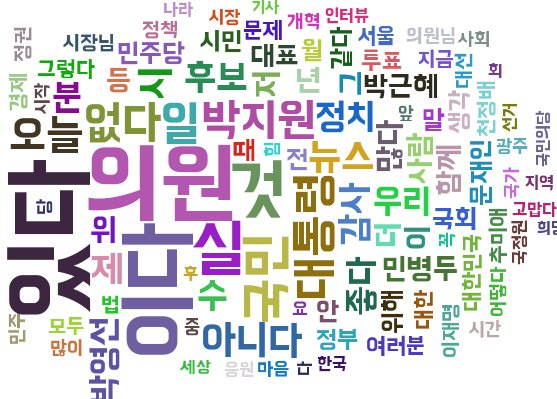
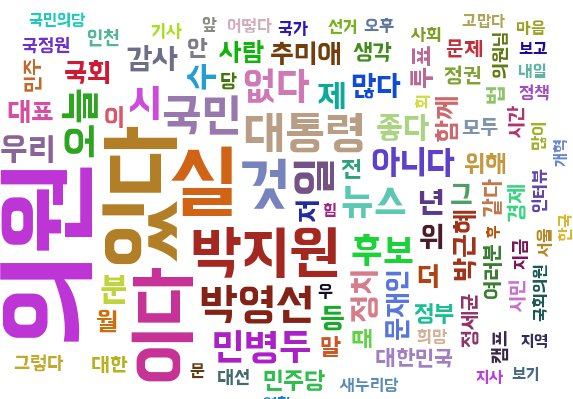
정치인 선택에 대한 결과 반영 및 모달 창에서의 체크 유지, 캔슬 버튼 누르면 원래대로 돌아오게 구현

diff --git a/server/app/templates/integration.html b/server/app/templates/integration.html
@@ -42,7 +42,7 @@
     <!-- Bootstrap Core JavaScript -->
     <script src="../static/js/bootstrap.min.js"></script>
 
-    <script>
+    <!-- <script>
         $(window).load(function() {
             $('.button-checkbox').each(function () {
                 // Settings
@@ -107,25 +107,40 @@
                 init();
             });
         });
-    </script>
+    </script> -->
 
     <script>
         function button_generate(inclination, json){
             data = JSON.parse(json);
             var i;
-            for(i=0;i<data.length;i+=3){
-                if(i+2<data.length){
-                    $("#"+inclination).append("<div class='btn-group btn-group-justified col-md-12' role='group'><span class='button-checkbox btn-group' role='group'><button type='button' class='btn' data-color='primary'>"+data[i]+"</button><input type='checkbox' class='hidden' checked /></span><span class='button-checkbox btn-group' role='group'><button type='button' class='btn' data-color='primary'>"+data[i+1]+"</button><input type='checkbox' class='hidden' checked /></span><span class='button-checkbox btn-group' role='group'><button type='button' class='btn' data-color='primary'>"+data[i+2]+"</button><input type='checkbox' class='hidden' checked /></span></div>");
+            var left_politician = ["김부겸","김성식","김진표","문재인","민병두","박범계","박영선",
+                "박원순","박지원","송영길","안철수","안희정","이재명","정동영",
+                "정세균","진영","천정배","추미애","표창원"]
+            var right_politician = ["김무성","김진태","나경원","남경필","서청원","심재철","원유철",
+                 "원희룡","이준석","장제원","정우택","정진석","최경환"];
+            if(inclination.substring(0,4) == "left"){
+                for(i=0;i<left_politician.length;i++){
+                    if(data.indexOf(left_politician[i]) > -1){
+                        $("#"+inclination).append("<input type='checkbox' name='"+inclination+"-ck' value='"+left_politician[i]+"' checked>"+left_politician[i]+"</input>");
+                    }
+                    else{
+                        $("#"+inclination).append("<input type='checkbox' name='"+inclination+"-ck' value='"+left_politician[i]+"'>"+left_politician[i]+"</input>");
+                    }
                 }
-                else if(i+1<data.length){
-                    $("#"+inclination).append("<div class='btn-group btn-group-justified col-md-12' role='group'><span class='button-checkbox btn-group' role='group'><button type='button' class='btn' data-color='primary'>"+data[i]+"</button><input type='checkbox' class='hidden' checked /></span><span class='button-checkbox btn-group' role='group'><button type='button' class='btn' data-color='primary'>"+data[i+1]+"</button><input type='checkbox' class='hidden' checked /></span><span class='button-checkbox btn-group' role='group'><button type='button' class='btn' data-color='primary' disabled>no one</button><input type='checkbox' class='hidden' checked /></span></div>");
-                }
-                else{
-                    $("#"+inclination).append("<div class='btn-group btn-group-justified col-md-12' role='group'><span class='button-checkbox btn-group' role='group'><button type='button' class='btn' data-color='primary'>"+data[i]+"</button><input type='checkbox' class='hidden' checked /></span><span class='button-checkbox btn-group' role='group'><button type='button' class='btn' data-color='primary' disabled>no one</button><input type='checkbox' class='hidden' checked /></span><span class='button-checkbox btn-group' role='group'><button type='button' class='btn' data-color='primary' disabled>no one</button><input type='checkbox' class='hidden' checked /></span></div>");
+            }
+            else{
+                for(i=0;i<right_politician.length;i++){
+                    if(data.indexOf(right_politician[i]) > -1){
+                        $("#"+inclination).append("<input type='checkbox' name='"+inclination+"-ck' value='"+right_politician[i]+"' checked>"+right_politician[i]+"</input>");
+                    }
+                    else{
+                        $("#"+inclination).append("<input type='checkbox' name='"+inclination+"-ck' value='"+right_politician[i]+"'>"+right_politician[i]+"</input>");
+                    }
                 }
             }
         }
     </script>
+
 
 </head>
 
@@ -269,7 +284,7 @@
 
 
                                         <span class="button">
-                                            <input type="submit" class="btn btn-primary" value="적용">
+                                            <input type="submit" class="btn btn-primary" value="적용" onclick="submit_list();">
                                         </span>
                                     </div>
                                 </div>
@@ -415,16 +430,22 @@
     </div>
     <!-- /.container -->
 
+
     <script>
         function submit_list(){
             // name이 같은 체크박스의 값들을 배열에 담는다.
-            var checkboxValues = [];
-            $("input[name='ck']:checked").each(function(i) {
-                checkboxValues.push($(this).val());
+            var left = [];
+            var right = [];
+            // button을 input으로 바꾸고 name 설정
+            $("input[name='left_btn_list-ck']:checked").each(function(i) {
+                left.push($(this).val());
+            });
+            $("input[name='right_btn_list-ck']:checked").each(function(i) {
+                right.push($(this).val());
             });
              
             // 사용자 ID(문자열)와 체크박스 값들(배열)을 name/value 형태로 담는다.
-            var allData = { "left": checkboxValues "right": checkboxValues};
+            var allData = { "left": left, "right": right};
              
             $.ajax({
                 type : "POST",

diff --git a/server/app/run.py b/server/app/run.py
@@ -10,18 +10,18 @@ app = Flask(__name__)
 ***REMOVED***
 
 
-left_dic={"김부겸":"hopekbk", "김성식":"okkimss", "김진표":"jinpyo_kim",
+politician_dic={"김부겸":"hopekbk", "김성식":"okkimss", "김진표":"jinpyo_kim",
           "문재인":"moonriver365", "민병두":"bdmin1958", "박범계":"bkfire1004",
           "박영선":"Park_Youngsun", "박원순":"wonsoonpark", "박지원":"jwp615",
           "송영길":"Bulloger", "안철수":"cheolsoo0919", "안희정":"steelroot",
           "이재명":"Jaemyung_Lee","정동영":"coreacdy","정세균":"sk0926",
           "진영":"Chinyoung0413", "천정배":"jb_1000", "추미애":"choomiae",
-          "표창원":"DrPyo"}
-right_dic={"김무성":"kimmoosung","김진태":"jtkim1013","나경원":"Nakw",
-           "남경필":"yesKP","서청원":"scw0403","심재철":"cleanshim",
-           "원유철":"won6767","원희룡":"wonheeryong","이준석":"junseokandylee",
-           "장제원":"Changjewon","정우택":"bigwtc","정진석":"js0904",
-           "최경환":"khwanchoi"}
+          "표창원":"DrPyo",
+          "김무성":"kimmoosung","김진태":"jtkim1013","나경원":"Nakw",
+          "남경필":"yesKP","서청원":"scw0403","심재철":"cleanshim",
+          "원유철":"won6767","원희룡":"wonheeryong","이준석":"junseokandylee",
+          "장제원":"Changjewon","정우택":"bigwtc","정진석":"js0904",
+          "최경환":"khwanchoi"}
 
 left_politician = ["김부겸","김성식","김진표","문재인","민병두","박범계","박영선",
                 "박원순","박지원","송영길","안철수","안희정","이재명","정동영",
@@ -41,28 +41,32 @@ right_Screen_Name = ["kimmoosung","jtkim1013","Nakw","yesKP","scw0403",
 left_select = left_politician
 right_select = right_politician
 
-
-
+def make_Screen_Name_list(people_list):
+    result_list = []
+    for one in people_list:
+        result_list.append(politician_dic[one])
+    return result_list
 
 @app.route('/')
 def main():
-    left_word = get_frequent_words(left_Screen_Name, ["left_frequency", "left_reply_frequency"])
+    left_word = get_frequent_words(make_Screen_Name_list(left_select), ["left_frequency", "left_reply_frequency"])
     avg = np.mean(list(zip(*left_word))[1])
     taglist = pytagcloud.make_tags(left_word[:100],
-                                   maxsize=13 * (left_word[0][1] - avg) / (avg - left_word[99][1]))
+                                   maxsize=12 * (left_word[0][1] - avg) / (avg - left_word[99][1]))
     pytagcloud.create_tag_image(taglist, './static/img/wordcloud_left.jpg', size=(600, 400),
                                 fontname='BMHANNA_11yrs_ttf', rectangular=False)
     print("Left done!")
 
-    right_word = get_frequent_words(right_Screen_Name, ["right_frequency", "right_reply_frequency"])
+    right_word = get_frequent_words(make_Screen_Name_list(right_select), ["right_frequency", "right_reply_frequency"])
     avg = np.mean(list(zip(*right_word))[1])
     taglist = pytagcloud.make_tags(right_word[:100],
-                                   maxsize=13 * (right_word[0][1] - avg) / (avg - right_word[99][1]))
+                                   maxsize=12 * (right_word[0][1] - avg) / (avg - right_word[99][1]))
     pytagcloud.create_tag_image(taglist, './static/img/wordcloud_right.jpg', size=(600, 400),
                                 fontname='BMHANNA_11yrs_ttf', rectangular=False)
     print("Right done!")
 
-    return render_template('integration.html', left_freq=left_word, right_freq=right_word,
+    return render_template('integration.html',
+                           left_freq=left_word, right_freq=right_word,
                            left_select=json.dumps(left_select),
                            right_select=json.dumps(right_select))
 
@@ -70,6 +74,7 @@ def main():
 @app.route('/checkbox', methods=["GET", "POST"])
 def check_box():
     if request.method == 'POST':
+        global left_select, right_select
         left_select = request.json["left"]
         right_select = request.json["right"]
     return str(request.json);
